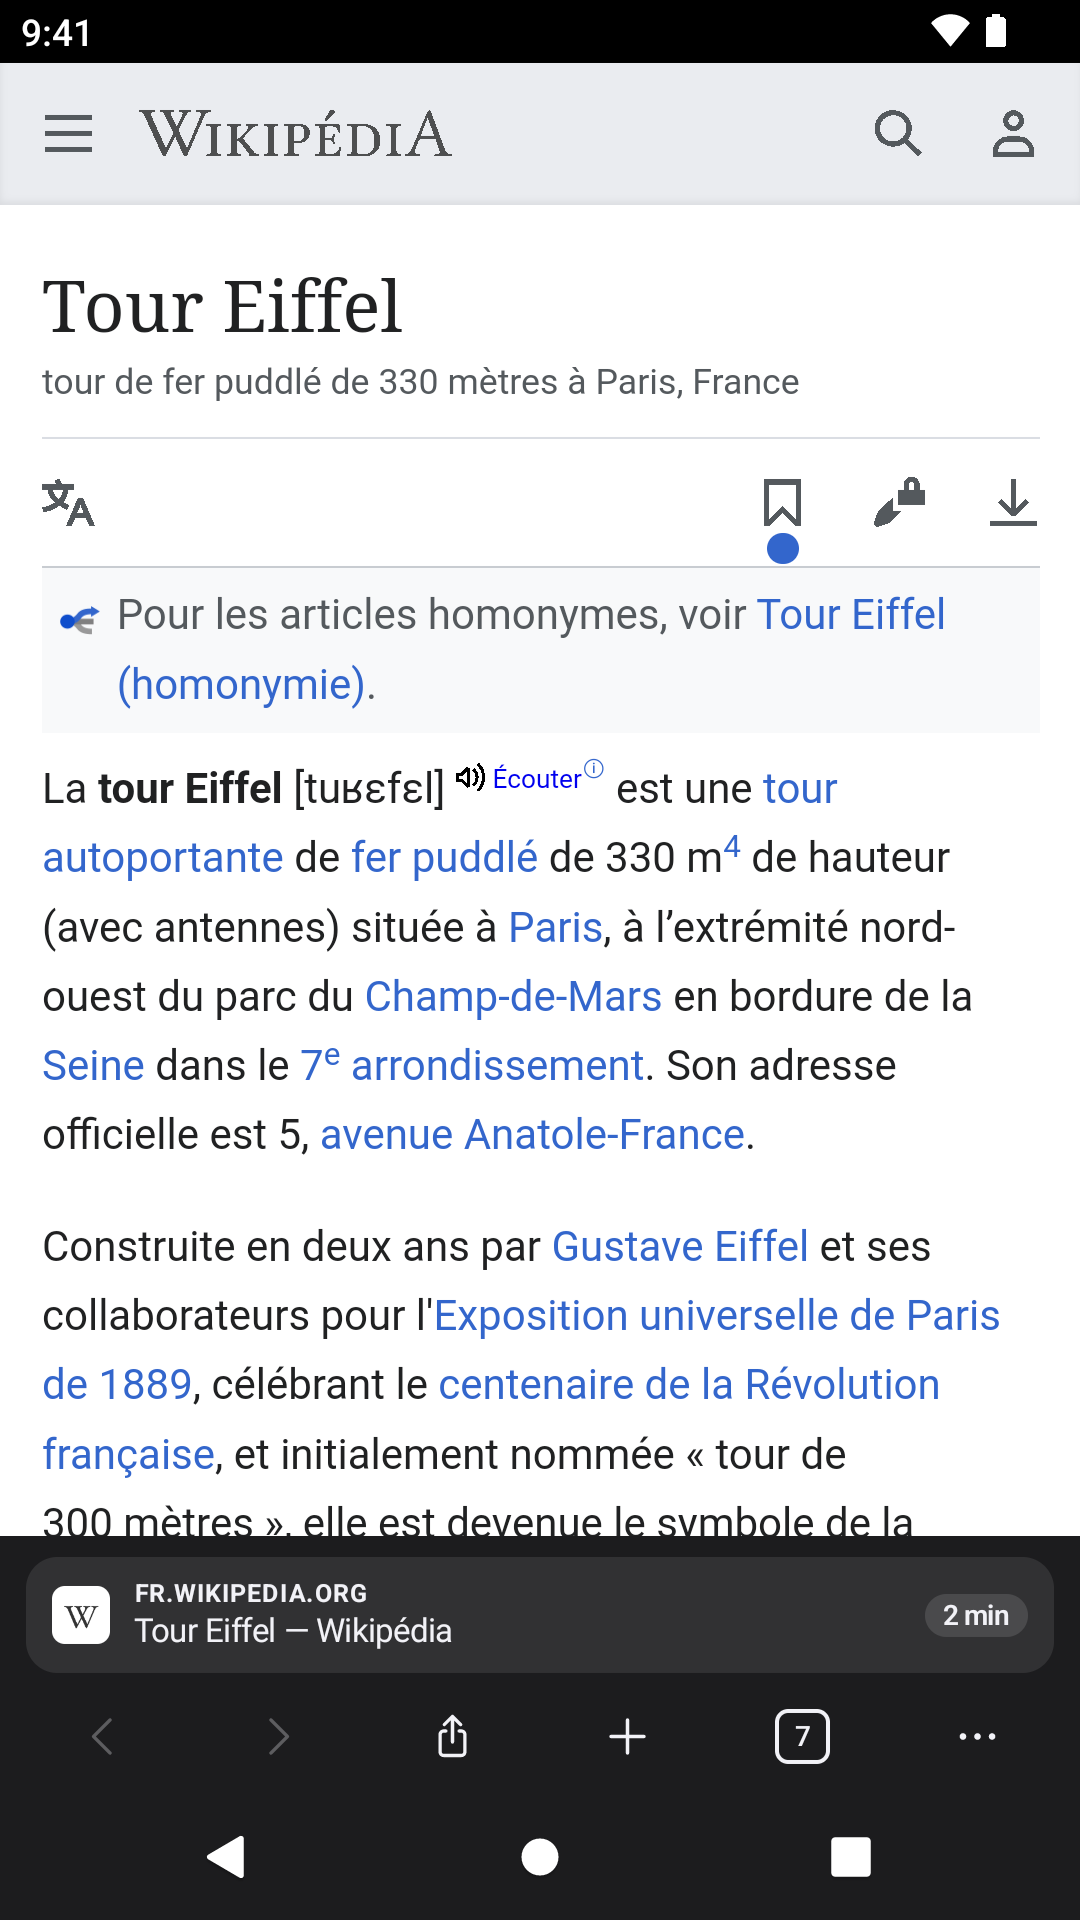
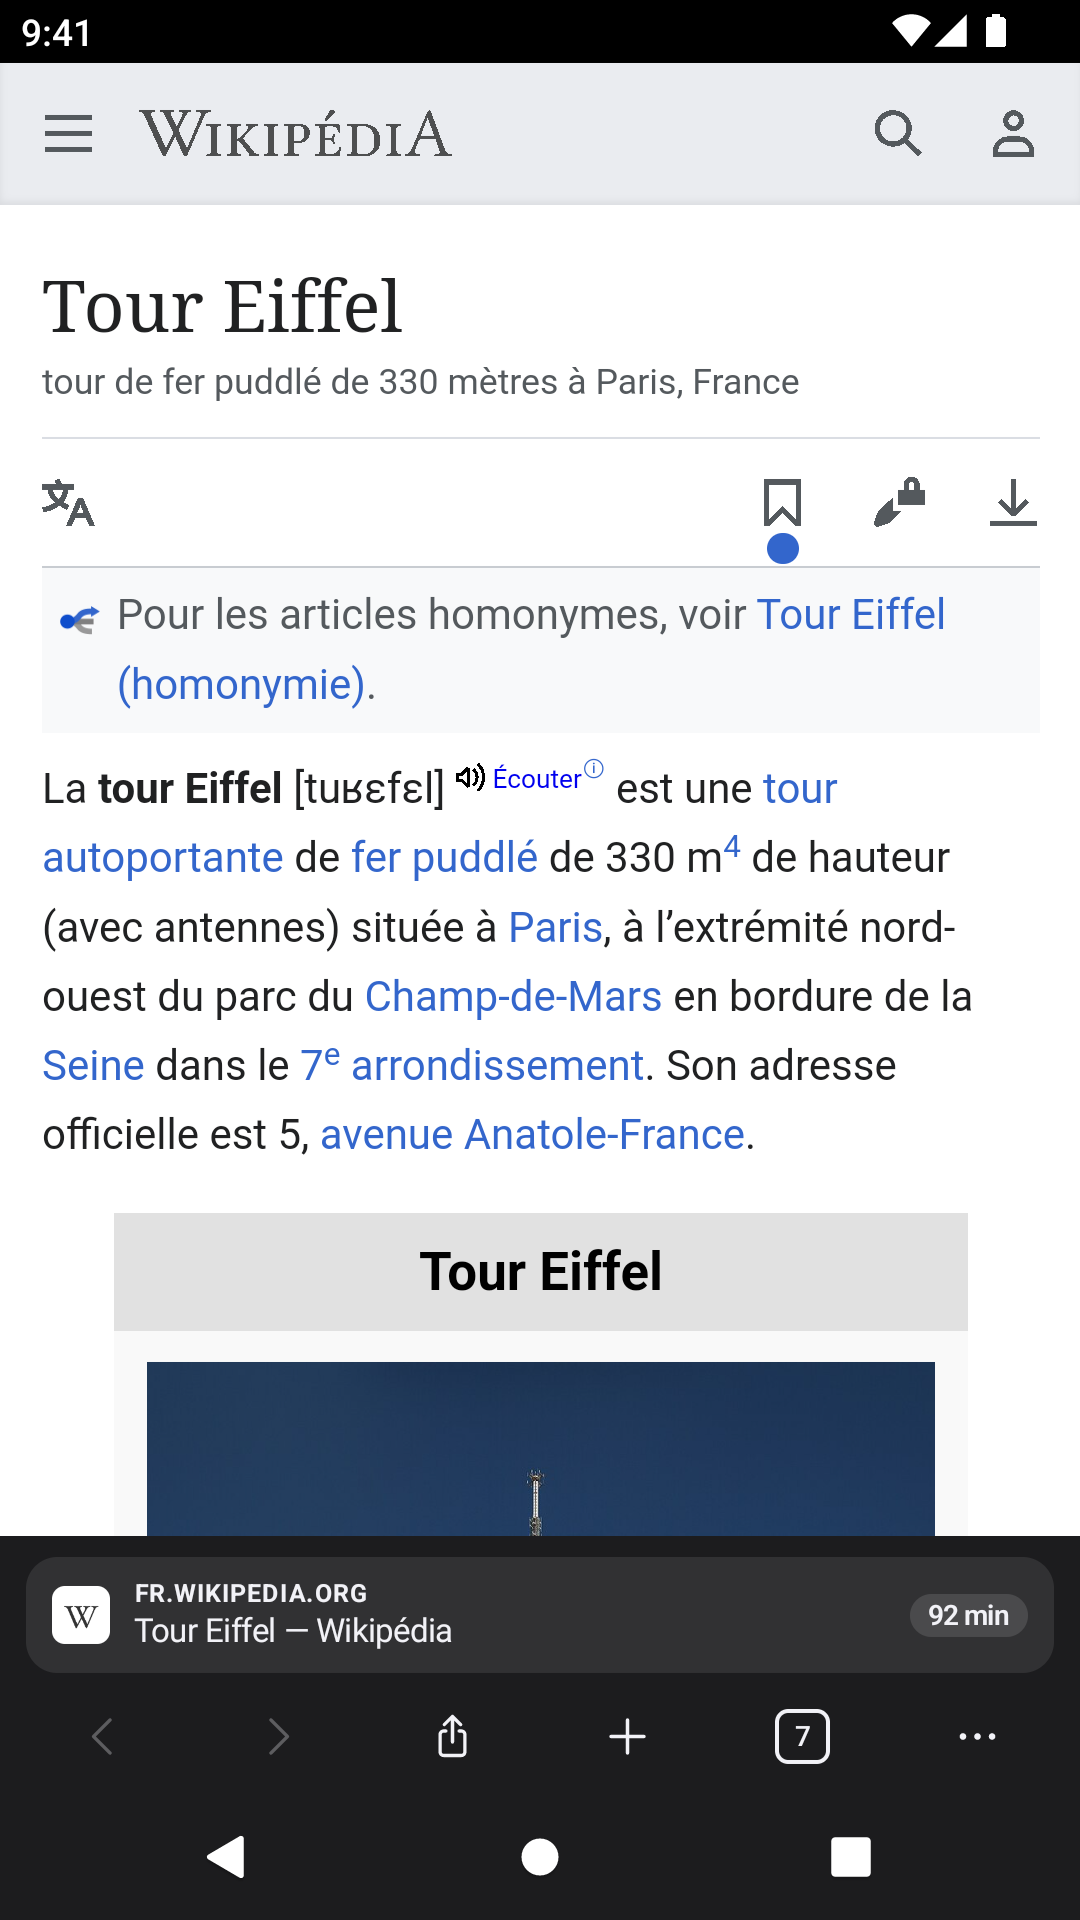
Temps de lecture : seuls les paragraphes de l'article comptent ; captures mises à jour
Claude-Session: https://claude.ai/code/session_017Vg4hUX43NGpYobFQsRYTv

Changed region(s): [[0.0306, 0.625, 0.9167, 0.8438], [0.825, 0.0, 0.9167, 0.0312]]

diff --git a/android-browser/app/src/main/java/fr/qafila/browser/web/Scripts.kt b/android-browser/app/src/main/java/fr/qafila/browser/web/Scripts.kt
@@ -5,7 +5,7 @@ object Scripts {
     /** Temps de lecture (200 mots/min) + couleur du site : theme-color (selon le mode clair/sombre), sinon fond de la page, normalisée en rgb(). */
     val pageInfo = """
         (function(){ try {
-          var root = document.querySelector('#mw-content-text, article, main, [role=main]') || document.body; var words = (root && root.textContent || '').split(/\s+/).filter(Boolean).length;
+          var root = document.querySelector('#mw-content-text, article, main, [role=main]') || document.body; var count = function(t){ return (t || '').split(/\s+/).filter(Boolean).length; }; var words = count(Array.prototype.map.call(root.querySelectorAll('p'), function(p){ return p.textContent; }).join(' ')); if (words < 60) words = count(root.textContent);
           function norm(c){ if (!c) return ''; var d = document.createElement('div'); d.style.color = c; (document.body || document.documentElement).appendChild(d); var r = getComputedStyle(d).color; d.remove(); return r; }
           function empty(c){ return !c || c === 'transparent' || /^rgba\(\s*0,\s*0,\s*0,\s*0\s*\)$/.test(c); }
           var c = '', metas = document.querySelectorAll('meta[name="theme-color"]');

diff --git a/ios-browser/QafilaBrowser/Services/Scripts.swift b/ios-browser/QafilaBrowser/Services/Scripts.swift
@@ -7,7 +7,10 @@ enum Scripts {
     (function(){
       try {
         var root = document.querySelector('#mw-content-text, article, main, [role=main]') || document.body;
-        var words = (root && root.textContent || '').split(/\\s+/).filter(Boolean).length;
+        var count = function(t){ return (t || '').split(/\\s+/).filter(Boolean).length; };
+        // Seuls les paragraphes comptent (pas les références, tableaux ni menus).
+        var words = count(Array.prototype.map.call(root.querySelectorAll('p'), function(p){ return p.textContent; }).join(' '));
+        if (words < 60) words = count(root.textContent);
         var meta = document.querySelector('meta[name="theme-color"]');
         var color = meta ? meta.getAttribute('content') : '';
         var icon = '';
